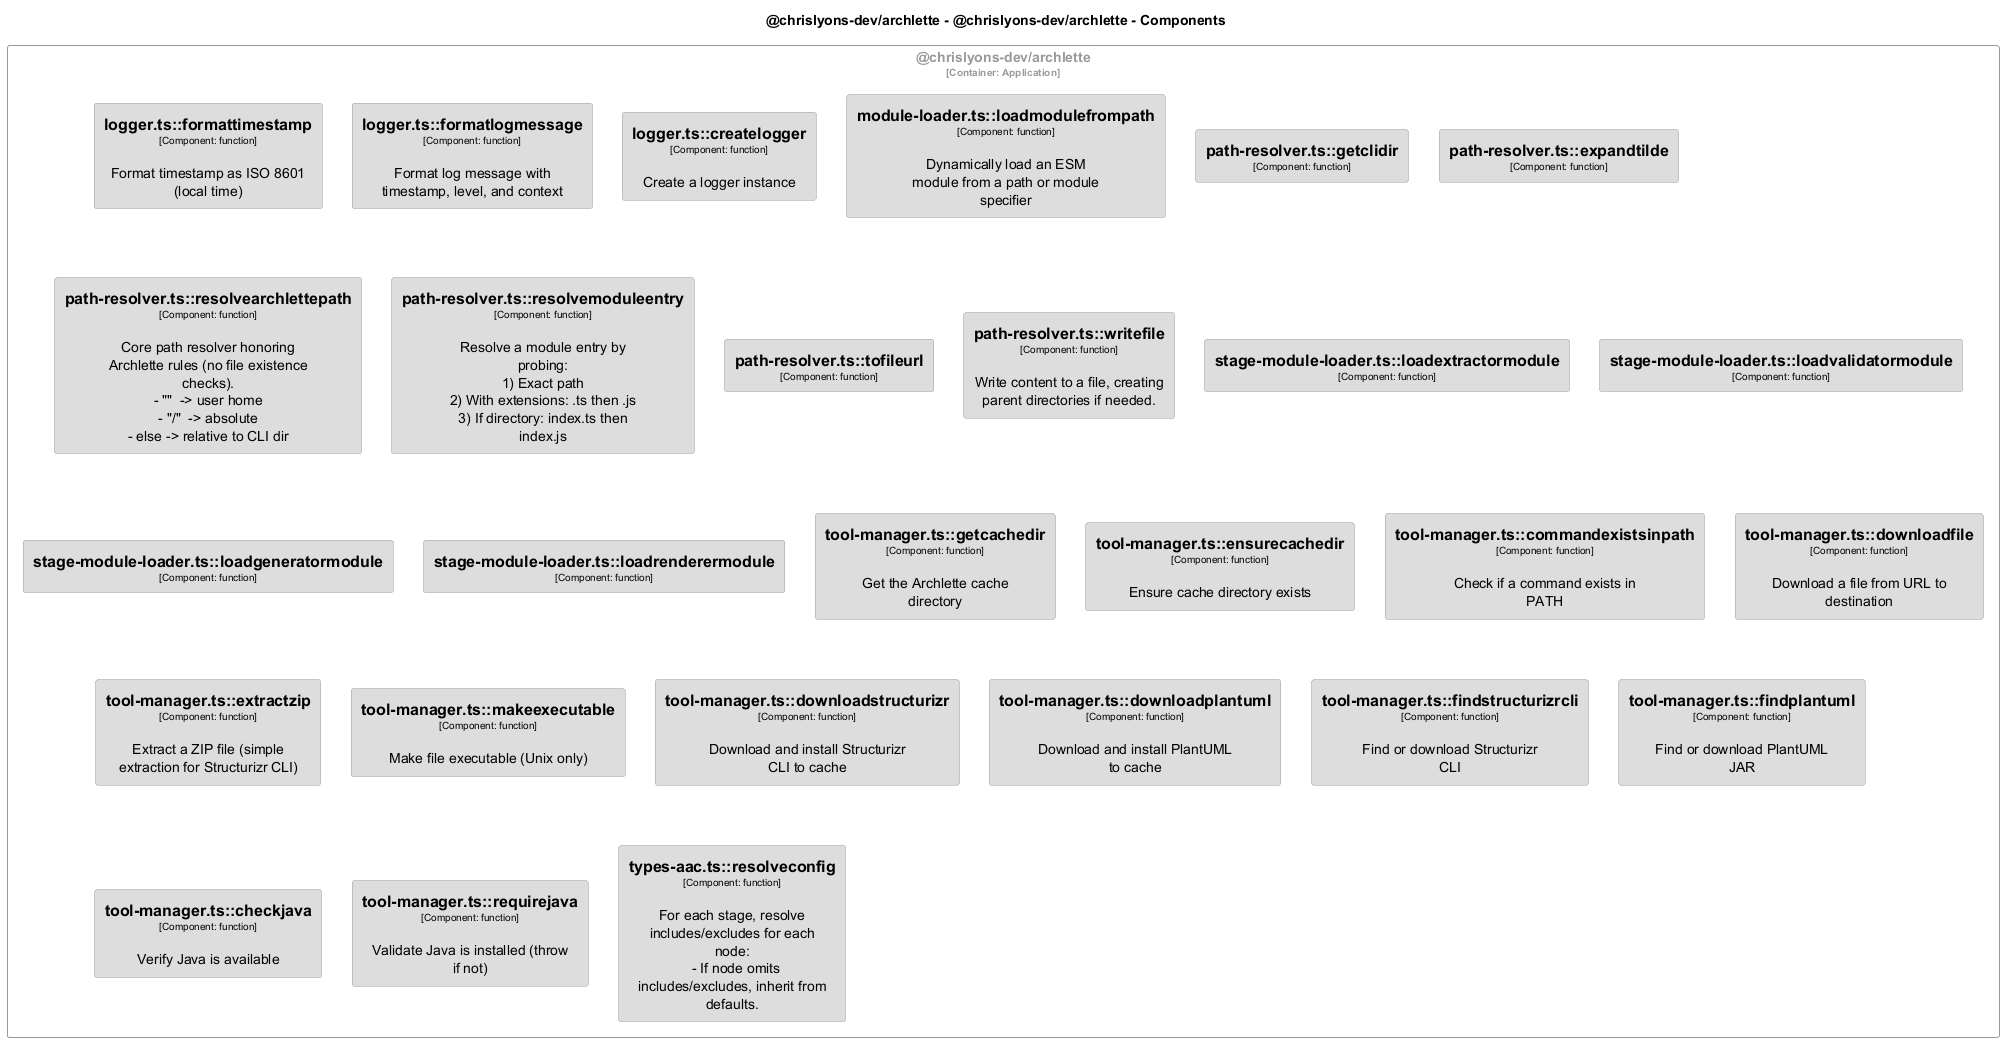
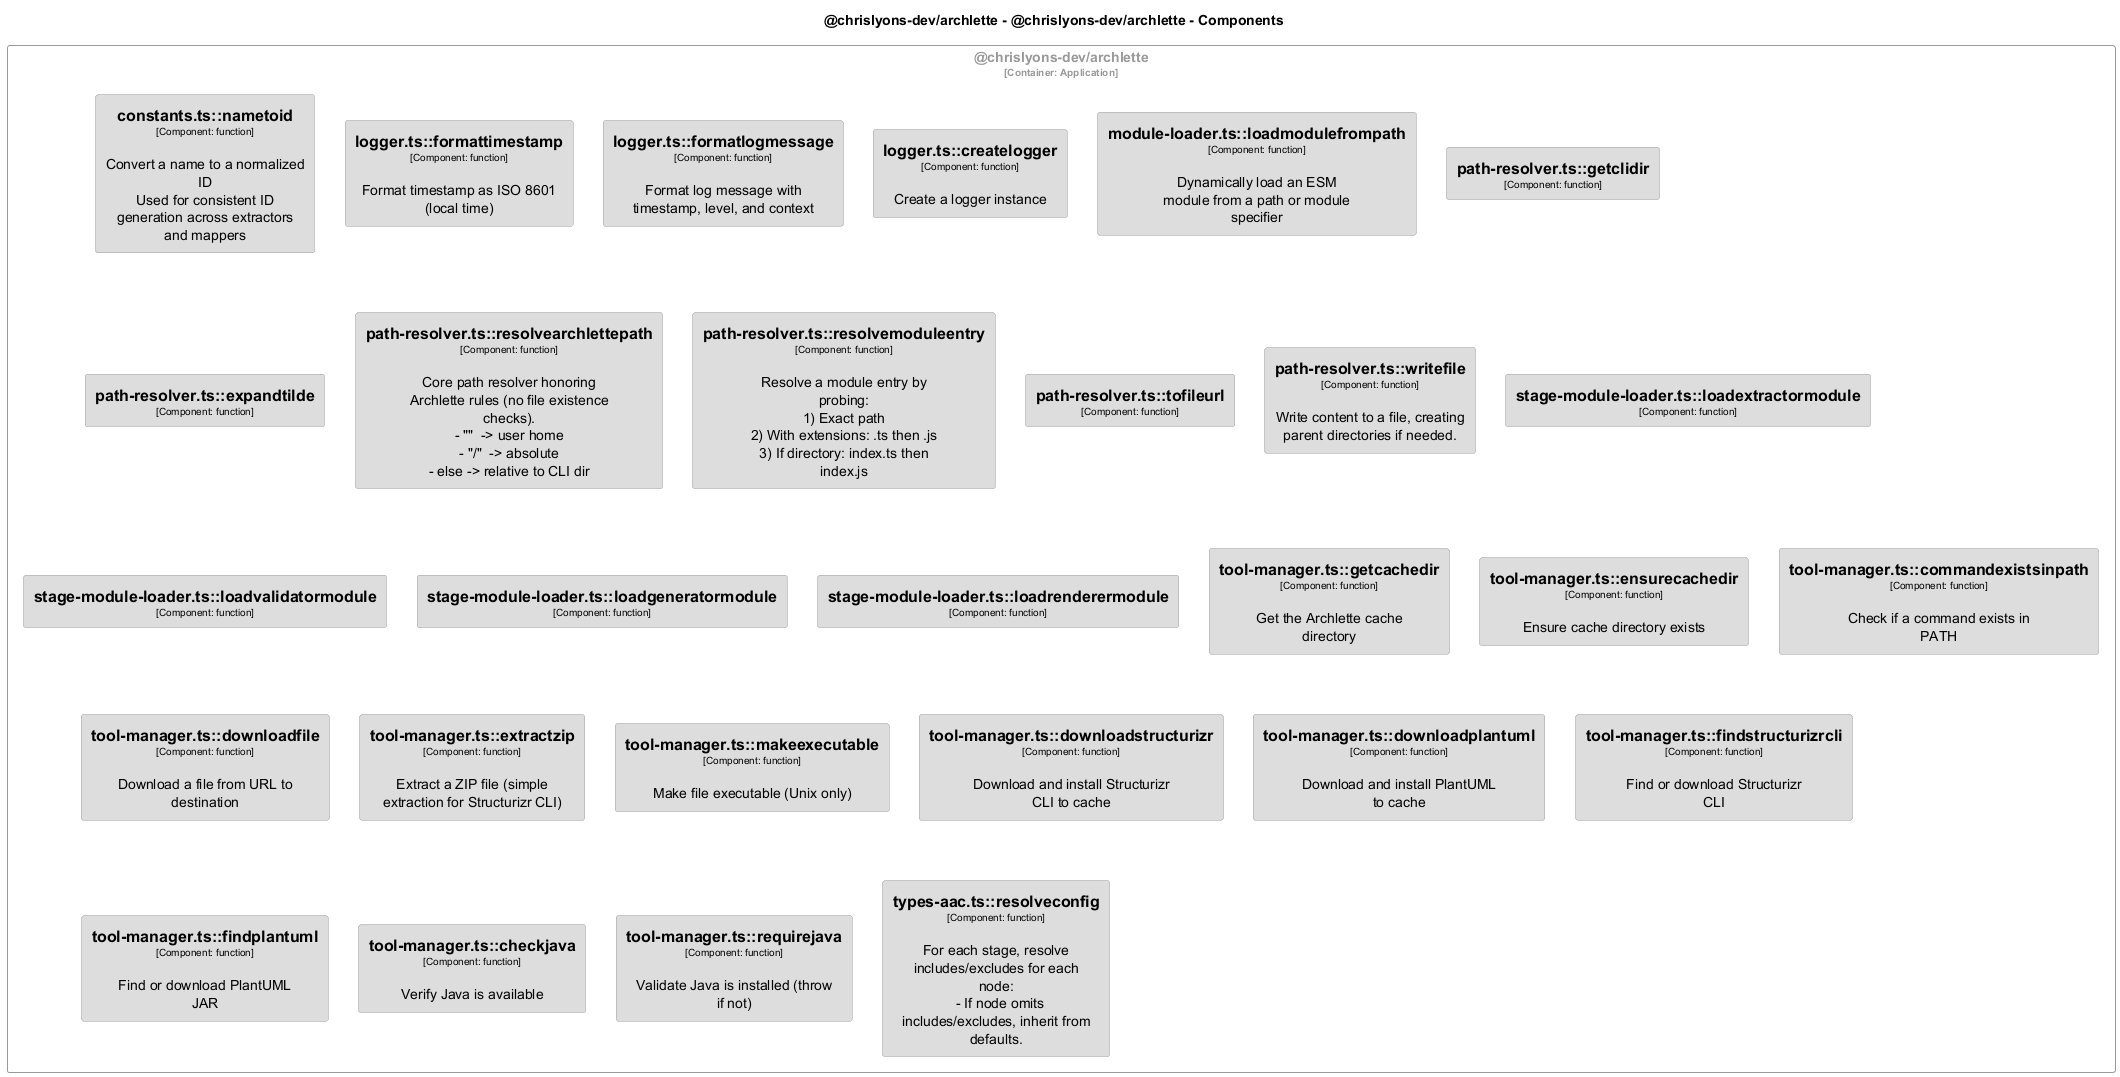
refactor: code cleanup. prune old actor logic, simplify logic, update documentation
1. Remove @usedBy extraction entirely from component-detector.ts
    - Delete lines 215-224 in extractRelationshipsFromJsDoc()
    - Remove inbound references from parseRelationshipTag()
  2. Eliminate direction field from RelationshipInfo interface
    - Update types.ts:37-42 and component-detector.ts:21-26
    - Simplify parseRelationshipTag() signature
  3. Update all documentation to remove @usedBy references
    - Mark it clearly as deprecated/unsupported
    - Update JSDoc comments
  4. Consolidate nameToId logic into shared utility
  5. Rename functions for clarity (optional):
    - extractFileRelationships() → extractFileUses()
    - parseRelationshipTag() → parseUsesTag()

Written-by: Chris Lyons

diff --git a/src/extractors/builtin/basic-node/component-detector.ts b/src/extractors/builtin/basic-node/component-detector.ts
@@ -4,6 +4,7 @@
 
 import type { SourceFile, Node } from 'ts-morph';
 import { SyntaxKind } from 'ts-morph';
+import { nameToId } from '../../../core/constants.js';
 
 export interface ComponentInfo {
   id: string;
@@ -22,7 +23,6 @@ export interface RelationshipInfo {
   source: string; // Source component/actor ID (inferred from file)
   target: string; // Target component/actor name
   description?: string;
-  direction: 'outbound' | 'inbound'; // @uses = outbound, @usedBy = inbound
 }
 
 /**
@@ -81,10 +81,9 @@ export function extractFileActors(sourceFile: SourceFile): ActorInfo[] {
 
 /**
  * Extract relationships from file-level JSDoc
- * Looks for @uses and @usedBy tags
- * Examples:
+ * Looks for @uses tags to identify component dependencies
+ * Example:
  * - @uses Extractor Analyzes source code to extract architecture components
- * - @usedBy CLI For reading configuration files and writing output
  */
 export function extractFileRelationships(sourceFile: SourceFile): RelationshipInfo[] {
   const relationships: RelationshipInfo[] = [];
@@ -192,7 +191,7 @@ function parseActorTag(tag: any): ActorInfo | undefined {
 
 /**
  * Extract relationships from a JSDoc node
- * Parses @uses and @usedBy tags
+ * Parses @uses tags to identify component dependencies
  */
 function extractRelationshipsFromJsDoc(jsDoc: Node): RelationshipInfo[] {
   if (!jsDoc.getKind || jsDoc.getKind() !== SyntaxKind.JSDoc) {
@@ -203,19 +202,10 @@ function extractRelationshipsFromJsDoc(jsDoc: Node): RelationshipInfo[] {
   const doc = jsDoc as any;
   const tags = doc.getTags ? doc.getTags() : [];
 
-  // Find all @uses tags (outbound relationships)
+  // Find all @uses tags
   const usesTags = tags.filter((t: any) => t.getTagName() === 'uses');
   for (const tag of usesTags) {
-    const rel = parseRelationshipTag(tag, 'outbound');
-    if (rel) {
-      relationships.push(rel);
-    }
-  }
-
-  // Find all @usedBy tags (inbound relationships)
-  const usedByTags = tags.filter((t: any) => t.getTagName() === 'usedBy');
-  for (const tag of usedByTags) {
-    const rel = parseRelationshipTag(tag, 'inbound');
+    const rel = parseUsesTag(tag);
     if (rel) {
       relationships.push(rel);
     }
@@ -225,36 +215,29 @@ function extractRelationshipsFromJsDoc(jsDoc: Node): RelationshipInfo[] {
 }
 
 /**
- * Parse a @uses or @usedBy tag
+ * Parse a @uses tag
  * Format: @uses Target description
- * Format: @usedBy Source description
- * Examples:
+ * Example:
  * - @uses Extractor Analyzes source code
- * - @usedBy CLI For reading configuration
  */
-function parseRelationshipTag(
-  tag: any,
-  direction: 'outbound' | 'inbound',
-): RelationshipInfo | undefined {
+function parseUsesTag(tag: any): RelationshipInfo | undefined {
   const text = tag.getCommentText ? tag.getCommentText() : '';
   if (!text) return undefined;
 
   const trimmed = text.trim();
 
-  // Match pattern: TargetName optional {Type} description
-  // For @uses: target is the first word, rest is description
-  // For @usedBy: source is the first word, rest is description
-  const match = trimmed.match(/^(\S+)(?:\s+\{[^}]+\})?\s*(.*)$/);
+  // Match pattern: TargetName description
+  // Target is the first word, rest is description
+  const match = trimmed.match(/^(\S+)\s*(.*)$/);
 
   if (match) {
-    const targetOrSource = match[1].trim();
+    const target = match[1].trim();
     const description = match[2].trim() || undefined;
 
     return {
       source: '', // Will be filled by mapper with the current file's component ID
-      target: targetOrSource,
+      target,
       description,
-      direction,
     };
   }
 
@@ -282,20 +265,4 @@ function extractComponentName(tag: any): string | undefined {
   }
 
   return trimmed;
-}
-
-/**
- * Convert component name to ID
- * Examples:
- * - "Payment Processor" -> "payment-processor"
- * - "payments/processor" -> "payments-processor"
- * - "PaymentService" -> "paymentservice"
- */
-function nameToId(name: string): string {
-  return name
-    .toLowerCase()
-    .replace(/[\s/]+/g, '-') // Replace spaces and slashes with dashes
-    .replace(/[^a-z0-9-]/g, '') // Remove non-alphanumeric (except dashes)
-    .replace(/-+/g, '-') // Collapse multiple dashes
-    .replace(/^-|-$/g, ''); // Remove leading/trailing dashes
 }

diff --git a/src/extractors/builtin/basic-node/to-ir-mapper.ts b/src/extractors/builtin/basic-node/to-ir-mapper.ts
@@ -18,7 +18,12 @@ import type {
 } from './types.js';
 import { readFileSync } from 'node:fs';
 import { resolve } from 'node:path';
-import { TAGS, DEFAULT_CONTAINER_ID, IR_VERSION } from '../../../core/constants.js';
+import {
+  TAGS,
+  DEFAULT_CONTAINER_ID,
+  IR_VERSION,
+  nameToId,
+} from '../../../core/constants.js';
 
 /**
  * Map file extractions to ArchletteIR
@@ -94,13 +99,10 @@ export function mapToIR(
 
     // Process @uses relationships from this file
     // @uses tags create component → component relationships
-    // Note: @usedBy tags are deprecated - actor relationships are now automatic
     for (const rel of file.relationships) {
-      // Only process @uses (outbound) relationships
-      // @usedBy (inbound) relationships are ignored - use @uses in the source component instead
-      if (rel.direction === 'outbound' && componentId) {
+      if (componentId) {
         // Convert target name to ID (lowercase, etc.)
-        const targetId = convertNameToId(rel.target);
+        const targetId = nameToId(rel.target);
 
         // Create component → component relationship
         componentRelationships.push({
@@ -174,33 +176,19 @@ export function mapToIR(
 }
 
 /**
- * Deduplicate relationships by source+destination combination
+ * Deduplicate relationships by source+destination+stereotype combination
  * First occurrence wins - preserves description from first relationship
+ * This allows multiple relationships between the same elements with different stereotypes
  */
 function deduplicateRelationships(relationships: Relationship[]): Relationship[] {
   const seen = new Map<string, Relationship>();
   for (const rel of relationships) {
-    const key = `${rel.source}:${rel.destination}`;
+    const key = `${rel.source}:${rel.destination}:${rel.stereotype ?? ''}`;
     if (!seen.has(key)) {
       seen.set(key, rel);
     }
   }
   return Array.from(seen.values());
-}
-
-/**
- * Convert a name to an ID
- * Examples:
- * - "Payment Processor" -> "payment-processor"
- * - "FileSystem" -> "filesystem"
- */
-function convertNameToId(name: string): string {
-  return name
-    .toLowerCase()
-    .replace(/[\s/]+/g, '-') // Replace spaces and slashes with dashes
-    .replace(/[^a-z0-9-]/g, '') // Remove non-alphanumeric (except dashes)
-    .replace(/-+/g, '-') // Collapse multiple dashes
-    .replace(/^-|-$/g, ''); // Remove leading/trailing dashes
 }
 
 /**

diff --git a/src/1-extract/aggregator.ts b/src/1-extract/aggregator.ts
@@ -119,7 +119,7 @@ function deduplicateByName<T extends { name: string }>(items: T[]): T[] {
 }
 
 /**
- * Deduplicate relationships by source+destination combination
+ * Deduplicate relationships by source+destination+stereotype combination
  *
  * @param relationships - Array of relationships to deduplicate
  * @returns Array with duplicate relationships removed
@@ -128,13 +128,14 @@ function deduplicateByName<T extends { name: string }>(items: T[]): T[] {
  * Two relationships are considered duplicates if they have the same:
  * - source ID
  * - destination ID
+ * - stereotype (undefined stereotypes are treated as distinct from defined ones)
  * The first occurrence is preserved, including its description.
- * Subsequent duplicates are ignored regardless of description or stereotype differences.
+ * This allows multiple relationships between the same elements with different stereotypes.
  */
 function deduplicateRelationships(relationships: Relationship[]): Relationship[] {
   const seen = new Map<string, Relationship>();
   for (const rel of relationships) {
-    const key = `${rel.source}:${rel.destination}`;
+    const key = `${rel.source}:${rel.destination}:${rel.stereotype ?? ''}`;
     if (!seen.has(key)) {
       seen.set(key, rel);
     }

diff --git a/test/generators/builtin/structurizr.test.ts b/test/generators/builtin/structurizr.test.ts
@@ -278,8 +278,9 @@ describe('structurizrGenerator', () => {
     const dsl = structurizrGenerator(ir, mockNode);
 
     // Should generate separate class views for each component
-    expect(dsl).toContain('component comp_auth "Classes_Auth"');
-    expect(dsl).toContain('component comp_user "Classes_User"');
+    // Note: Component views use container ID (api) as scope, not component ID
+    expect(dsl).toContain('component api "Classes_Auth"');
+    expect(dsl).toContain('component api "Classes_User"');
 
     // Should explicitly include code elements for the Auth component
     expect(dsl).toContain('include code_auth_handler');
@@ -294,7 +295,7 @@ describe('structurizrGenerator', () => {
 
     // Verify code elements are properly scoped to their components
     // Auth view should only include Auth code elements
-    const authViewStart = dsl.indexOf('component comp_auth "Classes_Auth"');
+    const authViewStart = dsl.indexOf('component api "Classes_Auth"');
     const authViewEnd = dsl.indexOf('}', authViewStart);
     const authView = dsl.substring(authViewStart, authViewEnd);
     expect(authView).toContain('code_auth_handler');

diff --git a/src/core/constants.ts b/src/core/constants.ts
@@ -40,3 +40,24 @@ export const DEFAULT_CONTAINER_ID = 'default-container';
  * IR schema version
  */
 export const IR_VERSION = '1.0';
+
+/**
+ * Convert a name to a normalized ID
+ * Used for consistent ID generation across extractors and mappers
+ *
+ * @param name - The name to convert (component, actor, etc.)
+ * @returns Normalized ID (lowercase, hyphenated, alphanumeric)
+ *
+ * @example
+ * nameToId('Payment Processor') // 'payment-processor'
+ * nameToId('payments/processor') // 'payments-processor'
+ * nameToId('PaymentService') // 'paymentservice'
+ */
+export function nameToId(name: string): string {
+  return name
+    .toLowerCase()
+    .replace(/[\s/]+/g, '-') // Replace spaces and slashes with dashes
+    .replace(/[^a-z0-9-]/g, '') // Remove non-alphanumeric (except dashes)
+    .replace(/-+/g, '-') // Collapse multiple dashes
+    .replace(/^-|-$/g, ''); // Remove leading/trailing dashes
+}

diff --git a/src/extractors/builtin/basic-node/types.ts b/src/extractors/builtin/basic-node/types.ts
@@ -38,7 +38,6 @@ export interface RelationshipInfo {
   source: string; // Source component/actor ID
   target: string; // Target component/actor name
   description?: string;
-  direction: 'outbound' | 'inbound';
 }
 
 export interface ExtractedClass {
